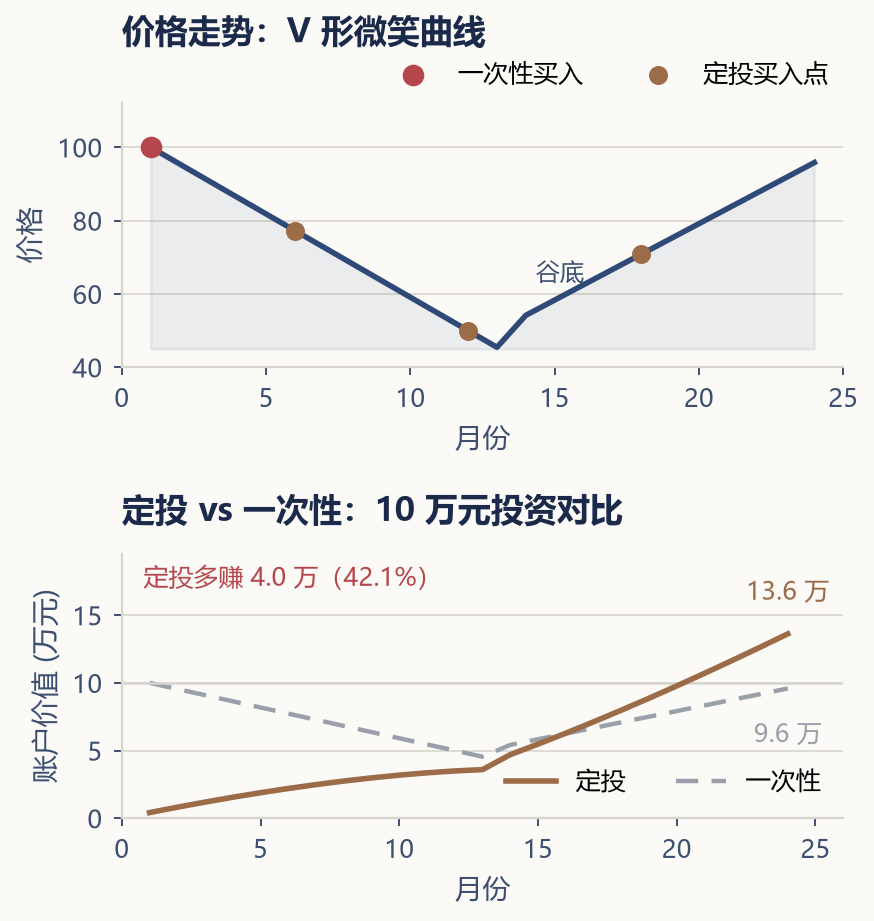
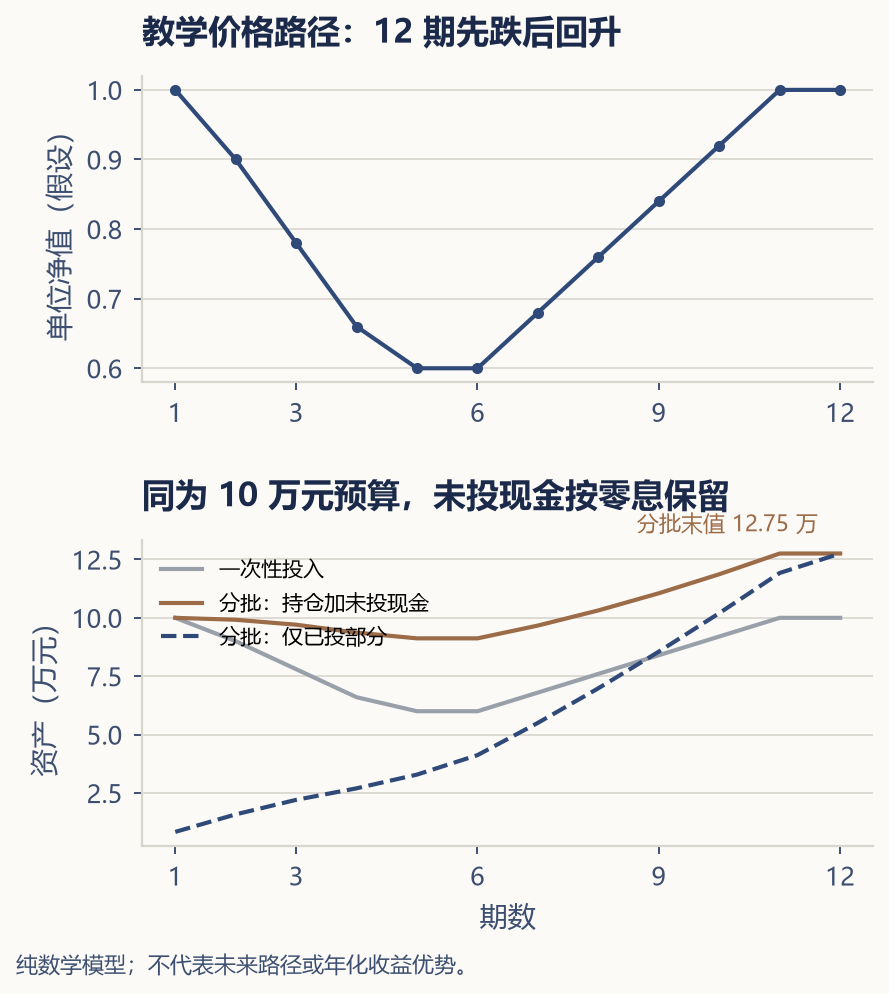
[f78f1d3e] fix: align calculators and DCA chart with manuscript cash flows

diff --git a/tools/compound-calculator/index.html b/tools/compound-calculator/index.html
@@ -122,12 +122,13 @@
   </footer>
 </div>
 
+<script src="../shared/finance-math.js"></script>
 <script>
 const I18N = {
   zh:{back:"← 返回工具箱",
     title:"复利计算器", subtitle:"源自《四倍做多认知，长期做多人生》第五章 · Compound Calculator",
     disclaimer:"教学模拟工具：公式与口径见页脚。结果仅为教学假设，不构成任何投资建议；历史收益不代表未来表现。",
-    inputTitle:"输入你的参数", lPrincipal:"初始本金（元）", lMonthly:"每月追加定投（元，可为 0）", hMonthly:"按每年年末投入一次等额（每月追加 × 12）计算",
+    inputTitle:"输入你的参数", lPrincipal:"初始本金（元）", lMonthly:"每月追加定投（元，可为 0）", hMonthly:"每月末投入；有效年收益率折算为月收益率",
     lRate:"年化收益率（%）", lYears:"投资年限（年）", btnCalc:"计算",
     resultTitle:"结果", mInvested:"总共投入", mGain:"复利增长部分", mFinal:"到期总额",
     lgTotal:"账户总额（复利）", lgInvested:"累计投入本金",
@@ -137,16 +138,16 @@ const I18N = {
     gapFmt:"{v}（晚 10 年，少投 {less}，却少积累 {gap}）",
     catchup:"35 岁才开始、仍想在 60 岁达到同样总额，每月需要约 {need}（而不是 500 元）——越晚开始，需要付出的越多。",
     catchup0:"收益率 0% 时无复利差距，早开始的意义主要来自时间（此处未计通胀）。",
-    caliber:"口径注：书序章同案例（每月 500 元、25 岁至 60 岁）约得 91 万，因其按「每月投入、按月复利」计算；本工具统一按「年末投入、年复利」口径（上表约 83 万）。结论方向一致，精确数字随口径而变。",
-    foot1:"口径与来源：① 终值（一次性本金）：P × (1+r)^n；② 定投（普通年金，年末投入）：A × [(1+r)^n − 1] ÷ r，A = 每月追加 × 12，r 为年化收益率、n 为年数。",
-    foot2:"假设：年复利、每年年末投入、期间不再取出；未计税费与费率（费率影响见书第十六章）。",
+    caliber:"与书中口径一致：7% 有效年收益率、月末投入 500 元，35 年约 85.6 万元。固定收益为教学假设。",
+    foot1:"纯数学模型：P×(1+r)^n + M×[(1+q)^(12n)−1]/q；q=(1+r)^(1/12)−1。零收益时追加部分=M×12n。",
+    foot2:"固定有效年收益率、月末投入、无提款，不计费用与通胀；2026-11-05 校核。",
     foot3:"72 法则：资产翻倍所需年数 ≈ 72 ÷ 年化收益率（书中第五章）；精确值为 ln2 / ln(1+r)。",
     foot4:"来源：《四倍做多认知，长期做多人生》第五章（复利）、第二十七章（定投）。本工具为「书 → 工具」系列（A1）；遵循仓库 data-provenance 规则。教学假设，不构成投资建议。"
   },
   en:{back:"← Toolbox",
     title:"Compound Interest Calculator", subtitle:"From Chapter 5 of 《Quadruple Leverage on Cognition, Long Life》",
     disclaimer:"Teaching simulation: formulas and caliber in footer. Results are hypothetical and not investment advice.",
-    inputTitle:"Your inputs", lPrincipal:"Initial principal (CNY)", lMonthly:"Monthly contribution (CNY, 0 allowed)", hMonthly:"Modeled as one equal annual contribution (monthly × 12) at year-end",
+    inputTitle:"Your inputs", lPrincipal:"Initial principal (CNY)", lMonthly:"Monthly contribution (CNY, 0 allowed)", hMonthly:"Month-end contributions; effective annual return converted to monthly",
     lRate:"Annual return (%)", lYears:"Years", btnCalc:"Calculate",
     resultTitle:"Result", mInvested:"Total invested", mGain:"Growth from compounding", mFinal:"Final value",
     lgTotal:"Account value (compounded)", lgInvested:"Cumulative contributions",
@@ -156,9 +157,9 @@ const I18N = {
     gapFmt:"{v} — starting 10 yrs later invests {less} less yet accumulates {gap} less",
     catchup:"To reach the same final value by 60 when starting at 35, you would need about {need} per month (not 500) — the later you start, the more it costs.",
     catchup0:"At 0% return there is no compounding gap; the point of starting early is time (inflation not modeled).",
-    caliber:"Caliber note: the book's prologue case (¥500/month, age 25-60) yields ≈¥910k using monthly compounding; this tool uses year-end annual compounding (≈¥830k above). Direction is identical; exact figures vary by caliber.",
-    foot1:"Formulas: ① Lump sum: P × (1+r)^n. ② Periodic (ordinary annuity, year-end): A × [(1+r)^n − 1] ÷ r, A = monthly × 12, r = annual rate, n = years.",
-    foot2:"Assumptions: annual compounding, year-end contributions, no withdrawals; taxes/fees ignored (see book Ch16 for fees).",
+    caliber:"Aligned with the book: 7% effective annual return, 500 each month end, 35 years: about 855,707. Hypothetical fixed returns.",
+    foot1:"Pure mathematics: P(1+r)^n + M[(1+q)^(12n)-1]/q; q=(1+r)^(1/12)-1. At zero return, contributions equal M*12n.",
+    foot2:"Fixed effective annual return, month-end contributions, no withdrawals, fees or inflation. Verified 2026-11-05.",
     foot3:"Rule of 72: years to double ≈ 72 ÷ annual return (book Ch5); exact: ln2 / ln(1+r).",
     foot4:"Source: 《Quadruple Leverage on Cognition, Long Life》 Ch5 (compounding), Ch27 (DCA). Part of the book-to-tool series (A1); follows repo data-provenance rules. Hypothetical — not investment advice."
   }
@@ -175,7 +176,7 @@ function applyLang(){
 function toggleLang(){ LANG = LANG==="zh"?"en":"zh"; applyLang(); }
 function fmt(n){ return "¥" + Math.round(n).toLocaleString(LANG==="zh"?"zh-CN":"en-US"); }
 function money(n){ return Math.round(n).toLocaleString(LANG==="zh"?"zh-CN":"en-US"); }
-function totalWith(monthly, rate, years){ const A=monthly*12, r=rate/100, n=years; return A*((Math.pow(1+r,n)-1)/r); }
+function totalWith(monthly,rate,years){ return monthly*FinanceMath.annuityFactor(rate/100,years); }
 function finalVals(p, monthly, rate, years){
   const r=rate/100, n=years, fvLump=p*Math.pow(1+r,n), fvAnn=totalWith(monthly,rate,years);
   const final=fvLump+fvAnn, invested=p+monthly*12*years;
@@ -211,7 +212,7 @@ function calc(){
   document.getElementById("c-early-p").textContent=fmt(e.invested);
   document.getElementById("c-late-p").textContent=fmt(l.invested);
   document.getElementById("c-gap").textContent=t("gapFmt",{v:fmt(e.final-l.final), less:fmt(e.invested-l.invested), gap:fmt(e.final-l.final)});
-  if(rate>0){ const need=(e.final*rate/100)/(Math.pow(1+rate/100,25)-1)/12; document.getElementById("c-catchup").innerHTML=t("catchup",{need:fmt(need)}); }
+  if(rate>0){ const need=FinanceMath.requiredMonthly(e.final,0,rate/100,25); document.getElementById("c-catchup").innerHTML=t("catchup",{need:fmt(need)}); }
   else document.getElementById("c-catchup").innerHTML=t("catchup0");
   document.getElementById("c-caliber").textContent=t("caliber");
 }

diff --git a/tools/goal-translator/index.html b/tools/goal-translator/index.html
@@ -52,7 +52,7 @@
     </select>
   </div><h1 data-i18n="title">人生目标翻译器</h1><span class="sub" data-i18n="subtitle">把目标翻译成每月数字 · 源自第三十二章</span>
 <button class="langbtn" id="langbtn" onclick="toggleLang()">English</button></header>
-<p class="disclaimer" data-i18n="disclaimer">反向翻译工具：给定目标金额与年限，算出每月该存多少。教学假设（固定年化、年复利），不构成投资建议。</p>
+<p class="disclaimer" data-i18n="disclaimer">反向翻译工具：给定目标金额与年限，算出每月该存多少。教学假设（固定有效年收益率、月末投入），不构成投资建议。</p>
 <div class="grid">
   <div class="card">
     <h2 data-i18n="inTitle">你的目标</h2>
@@ -63,7 +63,7 @@
       <div class="field" style="flex:1"><label data-i18n="lYr">距离年限（年）</label><input id="yr" type="number" min="1" max="50" value="10"></div>
       <div class="field" style="flex:1"><label data-i18n="lHave">已备金额（元）</label><input id="have" type="number" min="0" step="10000" value="0"></div>
     </div>
-    <div class="field"><label data-i18n="lRate">预期年化（%）</label><input id="rate" type="number" min="0" max="100" step="0.5" value="5"><div class="hint" data-i18n="hRate">稳健：2–3% · 偏债：3–5% · 含权益：5–8% · 请勿用短期高收益假设</div></div>
+    <div class="field"><label data-i18n="lRate">预期年化（%）</label><input id="rate" type="number" min="0" max="100" step="0.5" value="5"><div class="hint" data-i18n="hRate">教学假设的有效年收益率，不是产品收益承诺；另需考虑通胀</div></div>
     <button class="btn" onclick="run()" data-i18n="btnRun">翻译成每月数字</button>
   </div>
   <div class="card">
@@ -72,26 +72,27 @@
     <div class="big" id="need">—</div>
     <div class="verdict" id="verdict"></div>
     <div class="alt" id="alt"></div>
-    <div class="note" data-i18n="note">算法：先让已备金额按年化滚到目标日，缺口再按「每月定额 → 期末年金」反解月供。公式见页脚。</div>
+    <div class="note" data-i18n="note">算法：先让已备金额按年化滚到目标日，缺口再按「每月末投入 → 月度等效年金」反解月供。公式见页脚。</div>
   </div>
 </div>
 <footer><div id="foot"></div></footer>
 </div>
+<script src="../shared/finance-math.js"></script>
 <script>
-const I18N={zh:{back:"← 返回工具箱",title:"人生目标翻译器",subtitle:"把目标翻译成每月数字 · 源自第三十二章",disclaimer:"反向翻译工具：给定目标金额与年限，算出每月该存多少。教学假设（固定年化、年复利），不构成投资建议。",
+const I18N={zh:{back:"← 返回工具箱",title:"人生目标翻译器",subtitle:"把目标翻译成每月数字 · 源自第三十二章",disclaimer:"反向翻译工具：给定目标金额与年限，算出每月该存多少。教学假设（固定有效年收益率、月末投入），不构成投资建议。",
 inTitle:"你的目标",lType:"目标类型（参考）",tp0:"自定义",tp1:"买房首付",tp2:"子女教育",tp3:"提前退休/自由",
-lAmt:"目标金额（元）",lYr:"距离年限（年）",lHave:"已备金额（元）",lRate:"预期年化（%）",hRate:"稳健：2–3% · 偏债：3–5% · 含权益：5–8% · 请勿用短期高收益假设",btnRun:"翻译成每月数字",
+lAmt:"目标金额（元）",lYr:"距离年限（年）",lHave:"已备金额（元）",lRate:"预期年化（%）",hRate:"教学假设的有效年收益率，不是产品收益承诺；另需考虑通胀",btnRun:"翻译成每月数字",
 outTitle:"翻译结果",lSave:"你每月能存（元）？",
 needBig:"每月需存 {need}",
 need0:"已备金额已足够：让它继续复利即可，无需再额外储蓄。",
 verdictNeed:"距离目标还差 {gap}（已备 {have} 按 {r}% 滚 {y} 年后为 {fvHave}）。把缺口 {gap} 平摊到 {y} 年，每月需要存 {need}。",
 verdictFit:"按每月存 {save}、年化 {r}%：{y} 年后你能积累约 {acc}，达成率约 {pct}。",
 verdictShort:"按每月存 {save}，{y} 年后约积累 {acc}，距离 {target} 还差 {short} —— 需要提高月存或延长期限/调高预期（谨慎）。",
-note:"算法：先让已备金额按年化滚到目标日，缺口再按「每月定额 → 期末年金」反解月供。公式见页脚。",
+note:"算法：先让已备金额按年化滚到目标日，缺口再按「每月末投入 → 月度等效年金」反解月供。公式见页脚。",
 foot:"公式：F = P×(1+r)^n + A×[(1+r)^n−1]÷r，反解 A（每月 ×12）。来源：第三十二章（AI 长期规划）。书 → 工具系列（B2）。教学假设，不构成投资建议。"},
 en:{back:"← Toolbox",title:"Life Goal Translator",subtitle:"Turn goals into monthly numbers · from Ch32",disclaimer:"Reverse tool: given a target amount & horizon, find the monthly saving needed. Hypothetical (fixed annual return), not advice.",
 inTitle:"Your goal",lType:"Goal type (reference)",tp0:"Custom",tp1:"Home down payment",tp2:"Children's education",tp3:"Early retirement / freedom",
-lAmt:"Target amount (CNY)",lYr:"Years away",lHave:"Already saved (CNY)",lRate:"Expected annual return (%)",hRate:"Conservative 2–3% · bond-heavy 3–5% · with equity 5–8% · never assume short-term high returns",btnRun:"Translate to monthly",
+lAmt:"Target amount (CNY)",lYr:"Years away",lHave:"Already saved (CNY)",lRate:"Expected annual return (%)",hRate:"Hypothetical effective annual return, not a product forecast. Consider inflation separately.",btnRun:"Translate to monthly",
 outTitle:"Result",lSave:"Your monthly saving (CNY)?",
 needBig:"Need to save {need} / month",
 need0:"Savings already suffice: let compounding work — no extra saving needed.",
@@ -116,9 +117,8 @@ function run(){
   const fvHave=have*Math.pow(1+rate,y);
   const gap=Math.max(0,target-fvHave);
   let need=0;
-  if(gap>0 && rate>0){need=(gap*rate)/(Math.pow(1+rate,y)-1)/12;}
-  else if(gap>0){need=gap/(y*12);}
-  const fvAnn=save>0? save*12*((Math.pow(1+rate,y)-1)/Math.max(rate,1e-9)) : 0;
+  need=FinanceMath.requiredMonthly(target,have,rate,y);
+  const fvAnn=save>0? save*FinanceMath.annuityFactor(rate,y) : 0;
   const acc=fvHave+fvAnn;
   const el=document.getElementById("need");
   if(gap<=0){el.innerHTML=t("need0");document.getElementById("verdict").innerHTML="";}

diff --git a/articles/2026-quadruple-long-life/analysis/src/ch27_smile_curve.py b/articles/2026-quadruple-long-life/analysis/src/ch27_smile_curve.py
@@ -1,90 +1,41 @@
-"""
-Ch27 — 微笑曲线定投 vs 一次性投资（纯数学模拟）
-在 V 形走势（100→50→100）中，定投积累更多份额，跑赢一次性买入。
+"""Ch27: pure mathematical DCA comparison, matching the printed 12-month example.
 
-数据来源：纯数学模拟
-  参数：
-    - 投资总额：10 万元
-    - 价格路径：24 个月 V 形（100 → 50 → 100）
-    - 一次性：期初全仓买入
-    - 定投：每月等额 4,167 元（=100,000/24）
-  更新方法：修改 price 数组可模拟不同市场走势
+Source: teaching_models.DCA_PRICES, fictional unit prices, not historical data.
+Inputs: 100,000 cash; 12 equal purchases at the listed prices; unused cash earns
+zero; no taxes, fees or distributions. Update chapter and shared sequence together.
 """
 import numpy as np
-from _style import C_NAVY, C_NAVY_SOFT, C_RED, C_BLUE, C_BRONZE, C_GRAY, C_RULE, figure, save_chart, style_axes
+from teaching_models import DCA_PRICES
+from _style import C_NAVY_SOFT, C_BLUE, C_BRONZE, C_GRAY, figure, save_chart, style_axes
 
-# Simulate a V-shaped recovery over 24 months
-# Price: starts at 100, drops to 50 at month 12, recovers to 100 at month 24
-months = np.arange(1, 25)
-price = np.array([100 - i * (50 / 11) if i <= 12 else 50 + (i - 12) * (50 / 12) for i in range(24)])
+months = np.arange(1, 13)
+price = np.array(DCA_PRICES)
+contribution = 100000 / len(price)
+units = np.cumsum(contribution / price)
+dca_invested = units * price
+cash = 100000 - contribution * months
+dca_total = dca_invested + cash
+lump = 100000 / price[0] * price
 
-# Lump sum: buy at month 0, hold
-lump_units = 100000 / price[0]
-lump_value = lump_units * price
-
-# DCA: 4167/month (=100k/24)
-monthly_invest = 100000 / 24
-dca_units = np.cumsum(monthly_invest / price)
-dca_value = dca_units * price
-gain = dca_value[-1] - lump_value[-1]
-
-# Stacked rather than side by side: at B5 width two panels each get ~5.7cm,
-# which crushes 24 monthly ticks. Stacked, each panel gets the full measure.
-fig, axes = figure(ratio=1.05, nrows=2, ncols=1)
+fig, axes = figure(ratio=1.08, nrows=2, ncols=1)
 ax1, ax2 = axes
-
-# Top: the price path, with the two buying patterns marked on it.
-style_axes(ax1, grid_axis="y")
-ax1.fill_between(months, 45, price, color=C_BLUE, alpha=0.08, zorder=2)
-ax1.plot(months, price, color=C_BLUE, linewidth=2, zorder=3)
-ax1.scatter([1], [price[0]], color=C_RED, s=46, zorder=5, label="一次性买入")
-ax1.scatter([6, 12, 18], [price[5], price[11], price[17]],
-            color=C_BRONZE, s=34, zorder=5, label="定投买入点")
-# The dip lands at month ~13 (the generated series bottoms just after 12). The
-# label sits in the empty wedge above and to the right of the vertex — below it
-# is the shaded area, and left is the descending leg.
-ax1.annotate("谷底", (13, price[11]), textcoords="offset points", xytext=(14, 16),
-             ha="left", va="bottom", fontsize=8.5, color=C_NAVY_SOFT)
-ax1.set_title("价格走势：V 形微笑曲线", loc="left", pad=22)
-ax1.set_ylabel("价格")
-ax1.set_xlabel("月份")
-# Legend above the axes: the first buy point sits at x=1, y=100, right under
-# where an upper-right in-axes legend would reach.
-ax1.legend(loc="lower right", bbox_to_anchor=(1.0, 1.0), frameon=False,
-           ncol=2, borderaxespad=0.2)
-ax1.set_ylim(40, 112)
-ax1.set_xlim(0, 25)
-
-# Bottom: what each strategy is worth along the same path.
-style_axes(ax2, grid_axis="y")
-ax2.plot(months, dca_value, color=C_BRONZE, linewidth=2, label="定投", zorder=3)
-ax2.plot(months, lump_value, color=C_GRAY, linewidth=1.6,
-         linestyle=(0, (5, 3)), label="一次性", zorder=2)
-ax2.axhline(y=100000, color=C_RULE, linewidth=0.9, zorder=2)
-
-# Endpoint values, anchored above the end of each curve and right-aligned to
-# it. The curves converge at the last month, so both labels are lifted clear
-# of the other line rather than centred on their own point.
-ax2.annotate(f"{dca_value[-1] / 10000:.1f} 万", (months[-1], dca_value[-1]),
-             textcoords="offset points", xytext=(0, 10), ha="center", va="bottom",
-             fontsize=9, color=C_BRONZE)
-ax2.annotate(f"{lump_value[-1] / 10000:.1f} 万", (months[-1], lump_value[-1]),
-             textcoords="offset points", xytext=(0, -12), ha="center", va="top",
-             fontsize=9, color=C_GRAY)
-
-ax2.annotate(
-    f"定投多赚 {gain / 10000:.1f} 万（{gain / lump_value[-1] * 100:.1f}%）",
-    xy=(0.03, 0.96), xycoords="axes fraction", ha="left", va="top",
-    fontsize=9, color=C_RED,
-)
-
-ax2.set_title("定投 vs 一次性：10 万元投资对比", loc="left")
-ax2.set_ylabel("账户价值 (万元)")
-ax2.set_xlabel("月份")
-ax2.yaxis.set_major_formatter(lambda v, _: f"{v / 10000:.0f}")
-ax2.legend(loc="lower right", frameon=False, ncol=2)
-ax2.set_xlim(0, 26)
-ax2.set_ylim(0, 195000)
-
-fig.tight_layout(h_pad=1.4)
-save_chart(fig, "ch27_smile_curve.png")
+style_axes(ax1)
+ax1.plot(months, price, color=C_BLUE, marker='o', markersize=3)
+ax1.set_title('教学价格路径：12 期先跌后回升', loc='left')
+ax1.set_ylabel('单位净值（假设）')
+ax1.set_xticks([1, 3, 6, 9, 12])
+style_axes(ax2)
+ax2.plot(months, lump / 10000, color=C_GRAY, label='一次性投入')
+ax2.plot(months, dca_total / 10000, color=C_BRONZE, label='分批：持仓加未投现金')
+ax2.plot(months, dca_invested / 10000, color=C_BLUE, linestyle='--', label='分批：仅已投部分')
+ax2.set_title('同为 10 万元预算，未投现金按零息保留', loc='left')
+ax2.set_xlabel('期数')
+ax2.set_ylabel('资产（万元）')
+ax2.set_xticks([1, 3, 6, 9, 12])
+ax2.legend(fontsize=7.5, loc='upper left')
+ax2.annotate(f'分批末值 {dca_total[-1]/10000:.2f} 万',
+             (12, dca_total[-1]/10000), xytext=(-8, 8), textcoords='offset points',
+             ha='right', fontsize=8, color=C_BRONZE)
+fig.text(.02, -.01, '纯数学模型；不代表未来路径或年化收益优势。', fontsize=8, color=C_NAVY_SOFT)
+fig.tight_layout(h_pad=1.8)
+save_chart(fig, 'ch27_smile_curve.png')

diff --git a/articles/2026-quadruple-long-life/analysis/src/teaching_models.py b/articles/2026-quadruple-long-life/analysis/src/teaching_models.py
@@ -1,0 +1,27 @@
+"""Pure mathematical models for the manuscript, verified 2026-11-05.
+
+Source: ordinary-annuity and unit-purchase arithmetic; no external market data.
+Parameters: effective annual return, month-end contributions, no taxes/fees or
+withdrawals. DCA uses the 12 hypothetical prices printed in chapter 27.
+Update: change parameters explicitly and update manuscript and charts together.
+"""
+from math import expm1, log1p
+
+DCA_PRICES = (1.0, .90, .78, .66, .60, .60, .68, .76, .84, .92, 1.0, 1.0)
+
+def annuity_factor(annual_rate, years):
+    months = round(years * 12)
+    if annual_rate <= -1 or years < 0:
+        raise ValueError('Invalid model inputs')
+    monthly_rate = expm1(log1p(annual_rate) / 12)
+    return months if abs(monthly_rate) < 1e-14 else expm1(months * log1p(monthly_rate)) / monthly_rate
+
+def future_value(initial, monthly, annual_rate, years):
+    return initial * (1 + annual_rate) ** years + monthly * annuity_factor(annual_rate, years)
+
+if __name__ == '__main__':
+    assert round(future_value(0, 500, .07, 35)) == 855707
+    assert round(future_value(0, 4000, .07, 30)) == 4677810
+    assert future_value(1000, 500, 0, 2) == 13000
+    assert round(sum(100000 / 12 / p for p in DCA_PRICES), 2) == 127545.48
+    print('Monthly annuity and DCA reference values verified.')
